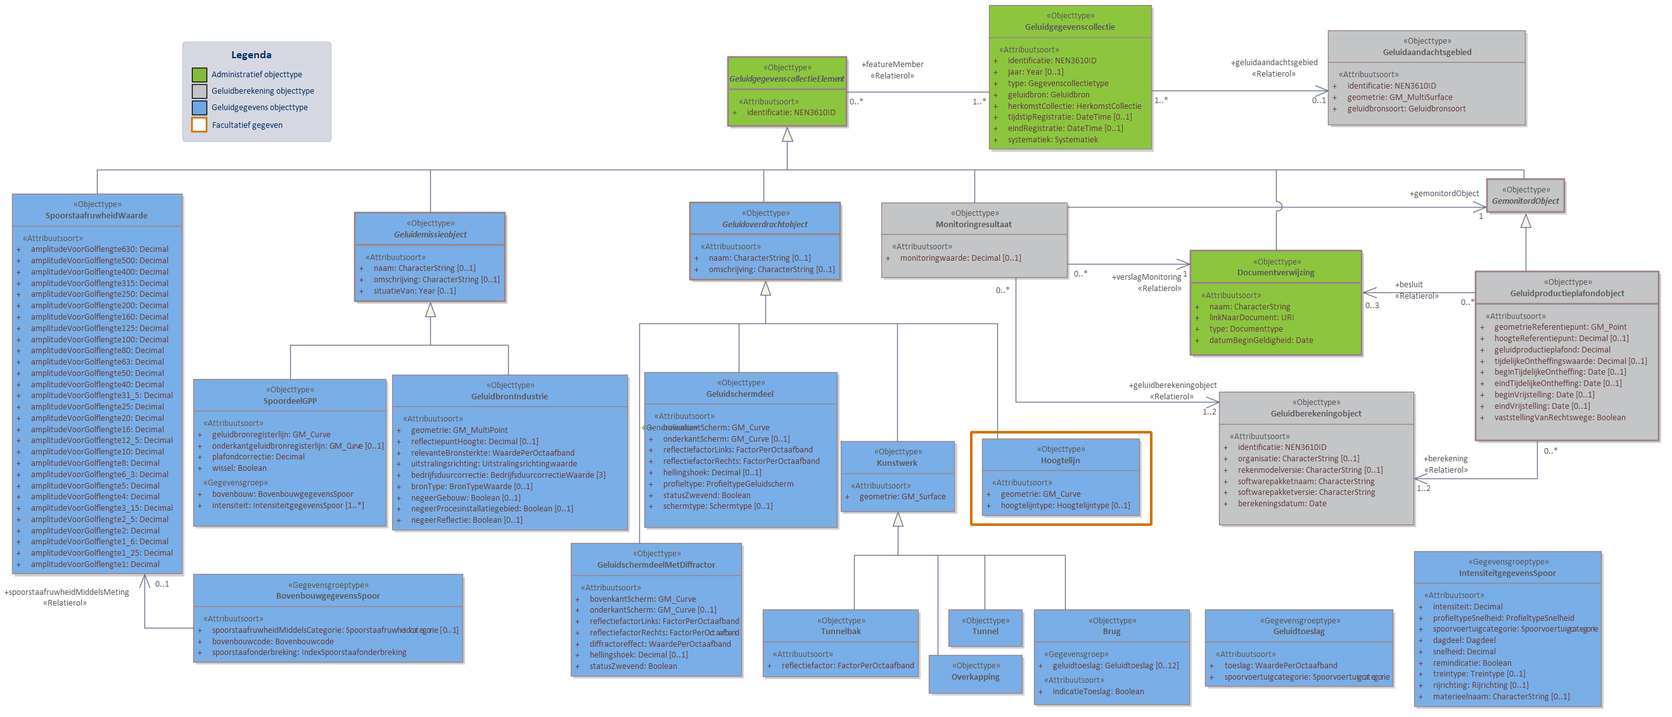
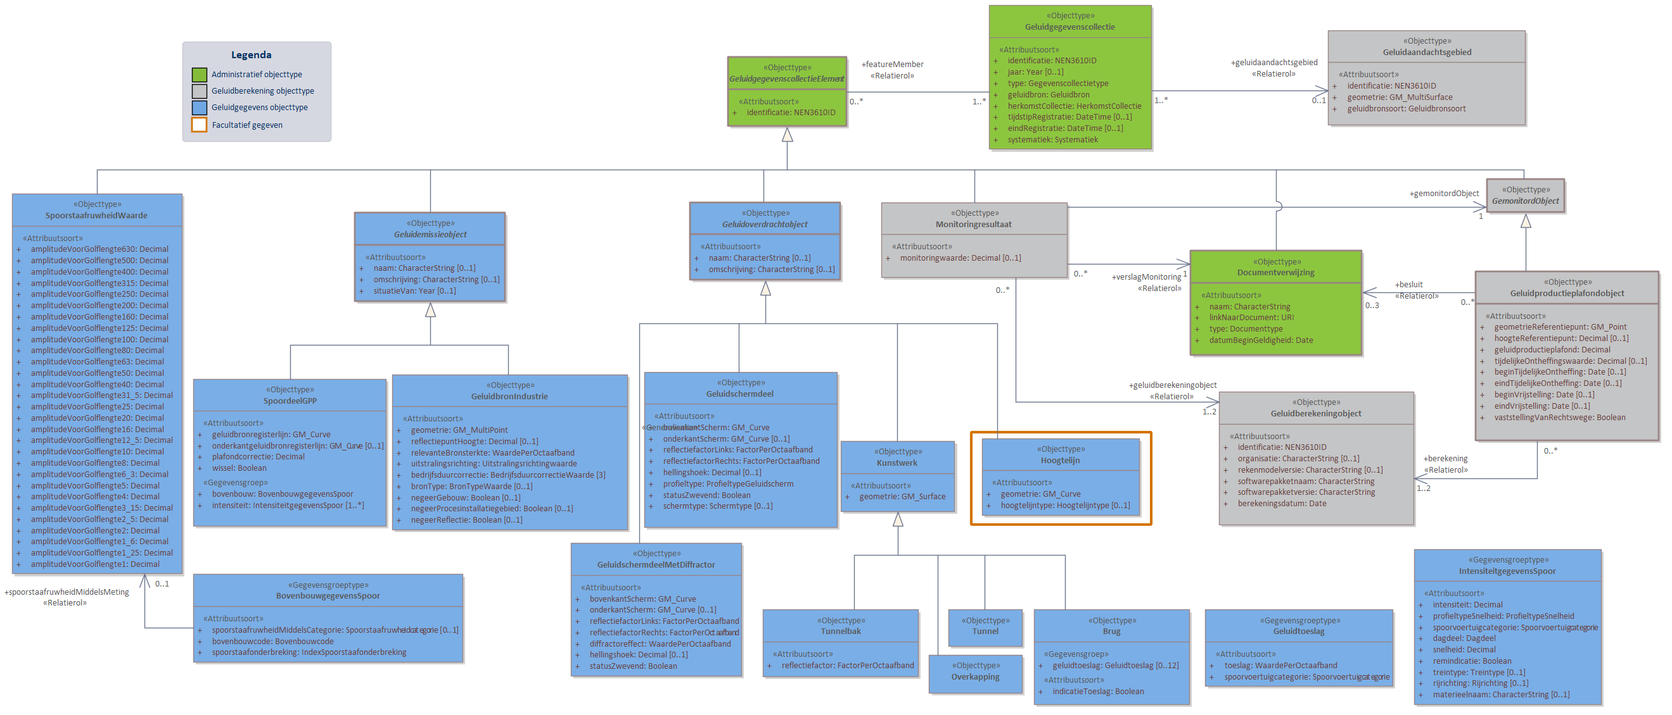
MIMLM-InformatiemodelGeluid-2.1-0-20221025-20230526-090517

diff --git a/data/IMG-cat.respec.html b/data/IMG-cat.respec.html
@@ -1,7 +1,7 @@
 
 <!DOCTYPE HTML><section id="cat" class="normative">
    <h2>Gegevensdefinitie</h2>
-   <!--MIMLM-InformatiemodelGeluid-2.1-0-20221025-20230525-085249 imvertor 1.67.1-->
+   <!--MIMLM-InformatiemodelGeluid-2.1-0-20221025-20230526-090517 imvertor 1.67.1-->
    <section id="EAID_66AE8FA2_74FC_4d4d_B2B2_249C8D6A651F">
       <h3>   Basismodel - overzicht</h3>
       <div class="imageinfo overview"><img src="data/Images/EAID_66AE8FA2_74FC_4d4d_B2B2_249C8D6A651F.png" usemap="#imagemap-EAID_66AE8FA2_74FC_4d4d_B2B2_249C8D6A651F" alt="Diagram &#xA;                        Het Basismodel vormt de samenhang tussen alle domeinen van het IMGeluid. Alle objecttypen en relaties uit het IMGeluid komen samen in een Geluidgegevenscollectie.&#xA;Binnen het IMGeluid worden geluidbrongegevens die gebruikt worden voor GPP en BGE berekeningen, gemodelleerd als een Geluidemissie of Geluidoverdrachtobject. De resultaten van GPP of BGE berekeningen worden opgeslagen in een Geluidgegevenscollectie. De onderliggende juridische vastleggingen, vaststellingen, of monitoringsverslagen van deze omgevings- of monitoringswaarden, worden ook opgeslagen in dezelfde Geluidgegevenscollectie.&#xA;Per geluidbron per toepassing kan er een Geluidgegevenscollectie bestaan. Deze kan geassocieerd worden met maximaal 1 Geluidaandachtsgebied. Wanneer geluidgegevens met betrekking tot cumulatieberekeningen worden aangeleverd, bevat een Geluidgegevenscollectie geen Geluidaandachtsgebied.&#xA;Klik met de rechtermuisknop op het diagram om de afbeelding op volledige grootte in een nieuw tabblad te openen.&#xA;                     "><map name="imagemap-EAID_66AE8FA2_74FC_4d4d_B2B2_249C8D6A651F"><area shape="rect" alt="GemonitordObject" coords="966,443,1089,508" href="#graph_EAID_5DD80772_ECDE_480d_9FC2_E806D8FD565E"><area shape="rect" alt="GeluidgegevenscollectieElement" coords="92,85,328,189" href="#graph_EAID_924BD078_D715_461a_B7E9_D7176A7406E0"><area shape="rect" alt="Monitoringresultaat" coords="391,562,640,675" href="#graph_EAID_BA00B77B_D408_4590_8185_CE59E5838F1E"><area shape="rect" alt="Basisgeluidemissieobject" coords="709,651,959,769" href="#graph_EAID_9AD15457_4880_42e5_8C72_4E5EFAC91B15"><area shape="rect" alt="Geluidproductieplafondobject" coords="985,604,1271,868" href="#graph_EAID_237408F8_8CE9_4828_B8FB_1A5B8C917622"><area shape="rect" alt="Geluidberekeningobject" coords="458,892,772,1092" href="#graph_EAID_97ED59FE_9FCA_49a6_8F07_214E48000B76"><area shape="rect" alt="Documentverwijzing" coords="432,299,689,474" href="#graph_EAID_7E137496_1028_4af5_9367_569358A2167B"><area shape="rect" alt="Geluidaandachtsgebied" coords="996,67,1242,206" href="#graph_EAID_B06128AC_518C_4e26_88E5_14ED5A050A19"><area shape="rect" alt="Geluidgegevenscollectie" coords="496,14,765,242" href="#graph_EAID_313C5AF9_49B8_4860_9E65_DE7C70084864"><area shape="rect" alt="Geluidemissieobject" coords="14,604,261,748" href="#graph_EAID_361C96BA_A638_494e_80BA_590ED481A81B"><area shape="rect" alt="Geluidoverdrachtobject" coords="107,332,357,461" href="#graph_EAID_2FEA326B_B7E7_48a4_B50F_00CCB2694677"></map><p><b>Basismodel - overzicht</b>
@@ -40,7 +40,7 @@
    </section>
    <section id="EAID_4D140CCE_0889_4998_B668_8E4DB0053589">
       <h3>   GPP Industrie - overzicht</h3>
-      <div class="imageinfo overview"><img src="data/Images/EAID_4D140CCE_0889_4998_B668_8E4DB0053589.png" usemap="#imagemap-EAID_4D140CCE_0889_4998_B668_8E4DB0053589" alt="Diagram &#xA;                        In domeinmodel GPP Industrie staan objecttypen en relaties die relevant zijn voor geluidbronbeheersing van industrieterreinen waarvoor de geluidproductieplafond regeling geldt; en die nodig zijn voor akoestisch onderzoek binnen het geluidaandachtsgebied van het industrieterrein.&#xA;Alle geluidbronnen op een industrieterrein worden opgeslagen als puntbronnen in het object  GeluidbronIndustrie. Indien binnen geluidrekensoftware gebruik is gemaakt van lijn- of vlakgeometrie voor het uitdrukken van geluidbronnen kan dit worden opgeslagen als optionele informatie conform de objecten LijnbronIndustrie en VlakbronIndustrie. &#xA;Voor ieder Geluidproductieplafondobject rondom het industrieterrein, valt te herleiden op welke geluidberekening de geluidproductieplafondwaarde gebaseerd is. Deze informatie wordt bijgehouden conform het Geluidberekeningobject.&#xA;Ook valt er te herleiden welke geluidbrongegevens gebruikt zijn bij een geluidberekening. Deze geluidbrongegevens zijn samen met het Geluidberekeningsobject terug te vinden in een  Geluidgegevenscollectie in de vorm van gespecialiseerde geluidemissie- en geluidoverdrachtsobjecten.&#xA;&#xA;&#xA;Klik met de rechtermuisknop op het diagram om de afbeelding op volledige grootte in een nieuw tabblad te openen&#xA;                     "><map name="imagemap-EAID_4D140CCE_0889_4998_B668_8E4DB0053589"><area shape="rect" alt="GemonitordObject" coords="1717,312,1840,370" href="#graph_EAID_5DD80772_ECDE_480d_9FC2_E806D8FD565E"><area shape="rect" alt="Industrieterrein" coords="1215,534,1480,661" href="#graph_EAID_1D01430D_AF7F_448d_B10E_DB334CFB14E9"><area shape="rect" alt="GeluidgegevenscollectieElement" coords="722,100,909,209" href="#graph_EAID_924BD078_D715_461a_B7E9_D7176A7406E0"><area shape="rect" alt="MonitoringresultaatIndustrie" coords="2154,876,2400,980" href="#graph_EAID_B9687B05_4B3A_4789_A07A_7B0C16C23CF5"><area shape="rect" alt="Terreintype" coords="1111,338,1286,477" href="#graph_EAID_77370E17_8492_4c58_9D1A_B6E09697F834"><area shape="rect" alt="Monitoringresultaat" coords="2161,649,2381,769" href="#graph_EAID_BA00B77B_D408_4590_8185_CE59E5838F1E"><area shape="rect" alt="Geluidgegevenscollectie" coords="1296,12,1618,242" href="#graph_EAID_313C5AF9_49B8_4860_9E65_DE7C70084864"><area shape="rect" alt="Geluidoverdrachtobject" coords="678,361,927,482" href="#graph_EAID_2FEA326B_B7E7_48a4_B50F_00CCB2694677"><area shape="rect" alt="Geluidemissieobject" coords="168,361,425,504" href="#graph_EAID_361C96BA_A638_494e_80BA_590ED481A81B"><area shape="rect" alt="GeluidproductieplafondobjectIndustrie" coords="1502,719,1805,876" href="#graph_EAID_54EBAB06_4239_44c9_A4FF_72CDA727F5D3"><area shape="rect" alt="Hoogtelijn" coords="491,847,748,969" href="#graph_EAID_CE3003A0_5F16_4630_B2A6_519B33439135"><area shape="rect" alt="Geluidschermdeel" coords="823,847,1107,1073" href="#graph_EAID_BC342A75_1053_4086_9B42_321F22E3FA82"><area shape="rect" alt="VlakbronIndustrie" coords="368,1021,696,1214" href="#graph_EAID_43CE47B3_F0C4_4ee1_A29C_DA9AE6216E59"><area shape="rect" alt="IndustrieRekeninstellingen" coords="1804,1095,2109,1197" href="#graph_EAID_7B120AD1_3CF4_4d78_9CA8_B7D7B709DB5A"><area shape="rect" alt="Bodemvlak" coords="1138,842,1395,987" href="#graph_EAID_902B9218_E1B1_4512_B52A_F8DADD1DB990"><area shape="rect" alt="Geluidberekeningobject" coords="1820,854,2125,1047" href="#graph_EAID_97ED59FE_9FCA_49a6_8F07_214E48000B76"><area shape="rect" alt="Terrein" coords="1301,339,1566,496" href="#graph_EAID_3CF82A2D_EBD2_45f5_BDBF_6B65612322CD"><area shape="rect" alt="LijnbronIndustrie" coords="82,1020,323,1179" href="#graph_EAID_EF66CAA4_E8AE_4eca_8176_0B5CE277CD47"><area shape="rect" alt="Procesinstallatiegebied" coords="842,649,1158,824" href="#graph_EAID_F66BFCFE_8850_4cf0_8769_084A9455A966"><area shape="rect" alt="Vegetatiegebied" coords="1167,671,1483,821" href="#graph_EAID_C09CF91E_C221_4fe9_B126_08102B3DEF5A"><area shape="rect" alt="Documentverwijzing" coords="2065,395,2275,549" href="#graph_EAID_7E137496_1028_4af5_9367_569358A2167B"><area shape="rect" alt="Geluidproductieplafondobject" coords="1659,415,1952,667" href="#graph_EAID_237408F8_8CE9_4828_B8FB_1A5B8C917622"><area shape="rect" alt="Bouwwerk" coords="511,649,823,842" href="#graph_EAID_8A05EFB0_A6AD_45e8_AE68_FAA4399063F2"><area shape="rect" alt="Geluidaandachtsgebied" coords="1971,41,2244,195" href="#graph_EAID_B06128AC_518C_4e26_88E5_14ED5A050A19"><area shape="rect" alt="GeluidbronIndustrie" coords="102,556,452,825" href="#graph_EAID_7B6D3D2D_0C70_435a_AAFC_FABC9CD61353"></map><p><b>GPP Industrie - overzicht</b>
+      <div class="imageinfo overview"><img src="data/Images/EAID_4D140CCE_0889_4998_B668_8E4DB0053589.png" usemap="#imagemap-EAID_4D140CCE_0889_4998_B668_8E4DB0053589" alt="Diagram &#xA;                        In domeinmodel GPP Industrie staan objecttypen en relaties die relevant zijn voor geluidbronbeheersing van industrieterreinen waarvoor de geluidproductieplafond regeling geldt; en die nodig zijn voor akoestisch onderzoek binnen het geluidaandachtsgebied van het industrieterrein.&#xA;Alle geluidbronnen op een industrieterrein worden opgeslagen als puntbronnen in het object  GeluidbronIndustrie. Indien binnen geluidrekensoftware gebruik is gemaakt van lijn- of vlakgeometrie voor het uitdrukken van geluidbronnen kan dit worden opgeslagen als optionele informatie conform de objecten LijnbronIndustrie en VlakbronIndustrie. &#xA;Voor ieder Geluidproductieplafondobject rondom het industrieterrein, valt te herleiden op welke geluidberekening de geluidproductieplafondwaarde gebaseerd is. Deze informatie wordt bijgehouden conform het Geluidberekeningobject.&#xA;Ook valt er te herleiden welke geluidbrongegevens gebruikt zijn bij een geluidberekening. Deze geluidbrongegevens zijn samen met het Geluidberekeningsobject terug te vinden in een  Geluidgegevenscollectie in de vorm van gespecialiseerde geluidemissie- en geluidoverdrachtsobjecten.&#xA;&#xA;&#xA;Klik met de rechtermuisknop op het diagram om de afbeelding op volledige grootte in een nieuw tabblad te openen&#xA;                     "><map name="imagemap-EAID_4D140CCE_0889_4998_B668_8E4DB0053589"><area shape="rect" alt="GemonitordObject" coords="1717,312,1840,370" href="#graph_EAID_5DD80772_ECDE_480d_9FC2_E806D8FD565E"><area shape="rect" alt="Industrieterrein" coords="1215,534,1480,661" href="#graph_EAID_1D01430D_AF7F_448d_B10E_DB334CFB14E9"><area shape="rect" alt="GeluidgegevenscollectieElement" coords="722,100,909,209" href="#graph_EAID_924BD078_D715_461a_B7E9_D7176A7406E0"><area shape="rect" alt="MonitoringresultaatIndustrie" coords="2154,876,2400,980" href="#graph_EAID_B9687B05_4B3A_4789_A07A_7B0C16C23CF5"><area shape="rect" alt="Terreintype" coords="1111,338,1286,477" href="#graph_EAID_77370E17_8492_4c58_9D1A_B6E09697F834"><area shape="rect" alt="Monitoringresultaat" coords="2161,649,2381,769" href="#graph_EAID_BA00B77B_D408_4590_8185_CE59E5838F1E"><area shape="rect" alt="Geluidgegevenscollectie" coords="1296,12,1618,242" href="#graph_EAID_313C5AF9_49B8_4860_9E65_DE7C70084864"><area shape="rect" alt="Geluidoverdrachtobject" coords="678,361,927,482" href="#graph_EAID_2FEA326B_B7E7_48a4_B50F_00CCB2694677"><area shape="rect" alt="Geluidemissieobject" coords="168,361,425,504" href="#graph_EAID_361C96BA_A638_494e_80BA_590ED481A81B"><area shape="rect" alt="GeluidproductieplafondobjectIndustrie" coords="1502,719,1805,876" href="#graph_EAID_54EBAB06_4239_44c9_A4FF_72CDA727F5D3"><area shape="rect" alt="Hoogtelijn" coords="491,847,748,969" href="#graph_EAID_CE3003A0_5F16_4630_B2A6_519B33439135"><area shape="rect" alt="Geluidschermdeel" coords="827,840,1111,1066" href="#graph_EAID_BC342A75_1053_4086_9B42_321F22E3FA82"><area shape="rect" alt="VlakbronIndustrie" coords="368,1021,696,1214" href="#graph_EAID_43CE47B3_F0C4_4ee1_A29C_DA9AE6216E59"><area shape="rect" alt="IndustrieRekeninstellingen" coords="1804,1095,2109,1197" href="#graph_EAID_7B120AD1_3CF4_4d78_9CA8_B7D7B709DB5A"><area shape="rect" alt="Bodemvlak" coords="1138,842,1395,987" href="#graph_EAID_902B9218_E1B1_4512_B52A_F8DADD1DB990"><area shape="rect" alt="Geluidberekeningobject" coords="1820,854,2125,1047" href="#graph_EAID_97ED59FE_9FCA_49a6_8F07_214E48000B76"><area shape="rect" alt="Terrein" coords="1301,339,1566,496" href="#graph_EAID_3CF82A2D_EBD2_45f5_BDBF_6B65612322CD"><area shape="rect" alt="LijnbronIndustrie" coords="82,1020,323,1179" href="#graph_EAID_EF66CAA4_E8AE_4eca_8176_0B5CE277CD47"><area shape="rect" alt="Procesinstallatiegebied" coords="842,649,1158,824" href="#graph_EAID_F66BFCFE_8850_4cf0_8769_084A9455A966"><area shape="rect" alt="Vegetatiegebied" coords="1167,671,1483,821" href="#graph_EAID_C09CF91E_C221_4fe9_B126_08102B3DEF5A"><area shape="rect" alt="Documentverwijzing" coords="2065,395,2275,549" href="#graph_EAID_7E137496_1028_4af5_9367_569358A2167B"><area shape="rect" alt="Geluidproductieplafondobject" coords="1659,420,1952,671" href="#graph_EAID_237408F8_8CE9_4828_B8FB_1A5B8C917622"><area shape="rect" alt="Bouwwerk" coords="511,649,823,842" href="#graph_EAID_8A05EFB0_A6AD_45e8_AE68_FAA4399063F2"><area shape="rect" alt="Geluidaandachtsgebied" coords="1971,41,2244,195" href="#graph_EAID_B06128AC_518C_4e26_88E5_14ED5A050A19"><area shape="rect" alt="GeluidbronIndustrie" coords="104,555,454,824" href="#graph_EAID_7B6D3D2D_0C70_435a_AAFC_FABC9CD61353"></map><p><b>GPP Industrie - overzicht</b>
             
             <p>In domeinmodel GPP Industrie staan objecttypen en relaties die relevant zijn voor
                geluidbronbeheersing van industrieterreinen waarvoor de geluidproductieplafond regeling
@@ -89,7 +89,7 @@
    </section>
    <section id="EAID_33DF05AD_62E8_41d4_8CC0_8980CB80739F">
       <h3>   GPP Spoor - overzicht</h3>
-      <div class="imageinfo overview"><img src="data/Images/EAID_33DF05AD_62E8_41d4_8CC0_8980CB80739F.png" usemap="#imagemap-EAID_33DF05AD_62E8_41d4_8CC0_8980CB80739F" alt="Diagram &#xA;                        In domeinmodel GPP Spoor staan objecttypen en relaties die relevant zijn voor geluidbronbeheersing van spoorwegen waarvoor de geluidproductieplafond regeling geldt; en die nodig zijn voor akoestisch onderzoek binnen het geluidaandachtsgebied van spoorwegen.&#xA;Geluidbronnen binnen GPP Spoor worden opgeslagen als lijnbron conform het object SpoordeelGPP, behalve voor geluidbronnen binnen spoorwegemplacementen. Deze geluidbronnen worden opgeslagen als GeluidbronIndustrie.&#xA;Voor ieder Geluidproductieplafondobject langs een Hoofdspoorweg, valt te herleiden op welke geluidberekening de geluidproductieplafondwaarde gebaseerd is. Deze informatie wordt bijgehouden conform het Geluidberekeningobject.&#xA;Ook valt er te herleiden welke geluidbrongegevens gebruikt zijn bij een geluidberekening. Deze geluidbrongegevens zijn samen met het Geluidberekeningsobject terug te vinden in een  Geluidgegevenscollectie in de vorm van gespecialiseerde geluidemissie- en geluidoverdrachtsobjecten.&#xA;&#xA;Klik met de rechtermuisknop op het diagram om de afbeelding op volledige grootte in een nieuw tabblad te openen&#xA;&#xA;                     "><map name="imagemap-EAID_33DF05AD_62E8_41d4_8CC0_8980CB80739F"><area shape="rect" alt="GemonitordObject" coords="2347,283,2470,336" href="#graph_EAID_5DD80772_ECDE_480d_9FC2_E806D8FD565E"><area shape="rect" alt="GeluidschermdeelMetDiffractor" coords="901,858,1171,1069" href="#graph_EAID_0A4CA1DE_F6B4_471a_9AC9_690315ADE781"><area shape="rect" alt="IntensiteitgegevensSpoor" coords="2232,871,2528,1117" href="#graph_EAID_5FFCEE29_DD71_45db_926C_AB9A7E8677F3"><area shape="rect" alt="BovenbouwgegevensSpoor" coords="305,907,731,1047" href="#graph_EAID_B5BBEDFE_C275_4c9f_BFF4_0440A0F7820B"><area shape="rect" alt="SpoorstaafruwheidWaarde" coords="19,306,288,907" href="#graph_EAID_E5D9E12A_27B9_417c_ABEB_2149C046EBE0"><area shape="rect" alt="GeluidgegevenscollectieElement" coords="1149,90,1337,200" href="#graph_EAID_924BD078_D715_461a_B7E9_D7176A7406E0"><area shape="rect" alt="Geluidtoeslag" coords="1902,963,2199,1085" href="#graph_EAID_FB0866C8_1438_445a_BB63_B798A00E1626"><area shape="rect" alt="Geluidgegevenscollectie" coords="1561,8,1818,236" href="#graph_EAID_313C5AF9_49B8_4860_9E65_DE7C70084864"><area shape="rect" alt="Monitoringresultaat" coords="1391,320,1685,439" href="#graph_EAID_BA00B77B_D408_4590_8185_CE59E5838F1E"><area shape="rect" alt="GeluidbronIndustrie" coords="619,592,991,838" href="#graph_EAID_7B6D3D2D_0C70_435a_AAFC_FABC9CD61353"><area shape="rect" alt="Kunstwerk" coords="1327,697,1507,809" href="#graph_EAID_E7C0AB60_EC07_4e4f_8F38_E279188D028A"><area shape="rect" alt="Overkapping" coords="1466,1035,1614,1096" href="#graph_EAID_68402E1D_9370_4bd4_87E6_A21FD883E5B5"><area shape="rect" alt="Tunnelbak" coords="1204,963,1450,1070" href="#graph_EAID_5A041C70_3BE7_4273_87C7_341981B09801"><area shape="rect" alt="Tunnel" coords="1497,963,1614,1022" href="#graph_EAID_52FB0AD2_D680_41f5_A4E8_979EF928F841"><area shape="rect" alt="Brug" coords="1632,963,1878,1114" href="#graph_EAID_F36131A1_FE84_4230_B41A_3E55575D3C80"><area shape="rect" alt="Geluidemissieobject" coords="560,336,798,477" href="#graph_EAID_361C96BA_A638_494e_80BA_590ED481A81B"><area shape="rect" alt="Geluidoverdrachtobject" coords="1089,320,1327,443" href="#graph_EAID_2FEA326B_B7E7_48a4_B50F_00CCB2694677"><area shape="rect" alt="Geluidberekeningobject" coords="1924,619,2232,830" href="#graph_EAID_97ED59FE_9FCA_49a6_8F07_214E48000B76"><area shape="rect" alt="Documentverwijzing" coords="1879,396,2150,562" href="#graph_EAID_7E137496_1028_4af5_9367_569358A2167B"><area shape="rect" alt="Geluidaandachtsgebied" coords="2096,48,2408,198" href="#graph_EAID_B06128AC_518C_4e26_88E5_14ED5A050A19"><area shape="rect" alt="Geluidproductieplafondobject" coords="2329,429,2619,697" href="#graph_EAID_237408F8_8CE9_4828_B8FB_1A5B8C917622"><area shape="rect" alt="SpoordeelGPP" coords="305,599,610,832" href="#graph_EAID_711C94BB_E0F7_40e5_A41A_C53DB13272C3"><area shape="rect" alt="Geluidschermdeel" coords="1017,588,1322,834" href="#graph_EAID_BC342A75_1053_4086_9B42_321F22E3FA82"><area shape="rect" alt="Hoogtelijn" coords="1550,693,1799,815" href="#graph_EAID_CE3003A0_5F16_4630_B2A6_519B33439135"></map><p><b>GPP Spoor - overzicht</b>
+      <div class="imageinfo overview"><img src="data/Images/EAID_33DF05AD_62E8_41d4_8CC0_8980CB80739F.png" usemap="#imagemap-EAID_33DF05AD_62E8_41d4_8CC0_8980CB80739F" alt="Diagram &#xA;                        In domeinmodel GPP Spoor staan objecttypen en relaties die relevant zijn voor geluidbronbeheersing van spoorwegen waarvoor de geluidproductieplafond regeling geldt; en die nodig zijn voor akoestisch onderzoek binnen het geluidaandachtsgebied van spoorwegen.&#xA;Geluidbronnen binnen GPP Spoor worden opgeslagen als lijnbron conform het object SpoordeelGPP, behalve voor geluidbronnen binnen spoorwegemplacementen. Deze geluidbronnen worden opgeslagen als GeluidbronIndustrie.&#xA;Voor ieder Geluidproductieplafondobject langs een Hoofdspoorweg, valt te herleiden op welke geluidberekening de geluidproductieplafondwaarde gebaseerd is. Deze informatie wordt bijgehouden conform het Geluidberekeningobject.&#xA;Ook valt er te herleiden welke geluidbrongegevens gebruikt zijn bij een geluidberekening. Deze geluidbrongegevens zijn samen met het Geluidberekeningsobject terug te vinden in een  Geluidgegevenscollectie in de vorm van gespecialiseerde geluidemissie- en geluidoverdrachtsobjecten.&#xA;&#xA;Klik met de rechtermuisknop op het diagram om de afbeelding op volledige grootte in een nieuw tabblad te openen&#xA;&#xA;                     "><map name="imagemap-EAID_33DF05AD_62E8_41d4_8CC0_8980CB80739F"><area shape="rect" alt="GemonitordObject" coords="2347,283,2470,336" href="#graph_EAID_5DD80772_ECDE_480d_9FC2_E806D8FD565E"><area shape="rect" alt="GeluidschermdeelMetDiffractor" coords="901,858,1171,1069" href="#graph_EAID_0A4CA1DE_F6B4_471a_9AC9_690315ADE781"><area shape="rect" alt="IntensiteitgegevensSpoor" coords="2232,868,2528,1114" href="#graph_EAID_5FFCEE29_DD71_45db_926C_AB9A7E8677F3"><area shape="rect" alt="BovenbouwgegevensSpoor" coords="305,907,731,1047" href="#graph_EAID_B5BBEDFE_C275_4c9f_BFF4_0440A0F7820B"><area shape="rect" alt="SpoorstaafruwheidWaarde" coords="19,306,288,907" href="#graph_EAID_E5D9E12A_27B9_417c_ABEB_2149C046EBE0"><area shape="rect" alt="GeluidgegevenscollectieElement" coords="1149,90,1337,200" href="#graph_EAID_924BD078_D715_461a_B7E9_D7176A7406E0"><area shape="rect" alt="Geluidtoeslag" coords="1902,963,2199,1085" href="#graph_EAID_FB0866C8_1438_445a_BB63_B798A00E1626"><area shape="rect" alt="Geluidgegevenscollectie" coords="1561,8,1818,236" href="#graph_EAID_313C5AF9_49B8_4860_9E65_DE7C70084864"><area shape="rect" alt="Monitoringresultaat" coords="1391,320,1685,439" href="#graph_EAID_BA00B77B_D408_4590_8185_CE59E5838F1E"><area shape="rect" alt="GeluidbronIndustrie" coords="619,592,991,838" href="#graph_EAID_7B6D3D2D_0C70_435a_AAFC_FABC9CD61353"><area shape="rect" alt="Kunstwerk" coords="1327,697,1507,809" href="#graph_EAID_E7C0AB60_EC07_4e4f_8F38_E279188D028A"><area shape="rect" alt="Overkapping" coords="1466,1035,1614,1096" href="#graph_EAID_68402E1D_9370_4bd4_87E6_A21FD883E5B5"><area shape="rect" alt="Tunnelbak" coords="1204,963,1450,1070" href="#graph_EAID_5A041C70_3BE7_4273_87C7_341981B09801"><area shape="rect" alt="Tunnel" coords="1497,963,1614,1022" href="#graph_EAID_52FB0AD2_D680_41f5_A4E8_979EF928F841"><area shape="rect" alt="Brug" coords="1632,963,1878,1114" href="#graph_EAID_F36131A1_FE84_4230_B41A_3E55575D3C80"><area shape="rect" alt="Geluidemissieobject" coords="560,336,798,477" href="#graph_EAID_361C96BA_A638_494e_80BA_590ED481A81B"><area shape="rect" alt="Geluidoverdrachtobject" coords="1089,320,1327,443" href="#graph_EAID_2FEA326B_B7E7_48a4_B50F_00CCB2694677"><area shape="rect" alt="Geluidberekeningobject" coords="1924,619,2232,830" href="#graph_EAID_97ED59FE_9FCA_49a6_8F07_214E48000B76"><area shape="rect" alt="Documentverwijzing" coords="1879,396,2150,562" href="#graph_EAID_7E137496_1028_4af5_9367_569358A2167B"><area shape="rect" alt="Geluidaandachtsgebied" coords="2096,48,2408,198" href="#graph_EAID_B06128AC_518C_4e26_88E5_14ED5A050A19"><area shape="rect" alt="Geluidproductieplafondobject" coords="2329,429,2619,697" href="#graph_EAID_237408F8_8CE9_4828_B8FB_1A5B8C917622"><area shape="rect" alt="SpoordeelGPP" coords="305,599,610,832" href="#graph_EAID_711C94BB_E0F7_40e5_A41A_C53DB13272C3"><area shape="rect" alt="Geluidschermdeel" coords="1017,588,1322,834" href="#graph_EAID_BC342A75_1053_4086_9B42_321F22E3FA82"><area shape="rect" alt="Hoogtelijn" coords="1550,693,1799,815" href="#graph_EAID_CE3003A0_5F16_4630_B2A6_519B33439135"></map><p><b>GPP Spoor - overzicht</b>
             
             <p>In domeinmodel GPP Spoor staan objecttypen en relaties die relevant zijn voor geluidbronbeheersing
                van spoorwegen waarvoor de geluidproductieplafond regeling geldt; en die nodig zijn
@@ -228,19 +228,17 @@
                         
                         <li>Wanneer Geluidgegevenscollectie.type = "monitoringresultaat", mag de Geluidgegevenscollectie
                            alleen de volgende objecttypen (of een specialisatie daarvan) bevatten: Monitoringresultaat
-                           en Documentverwijzing;
-                           * </li>
+                           en Documentverwijzing;</li>
                         
-                        <li>Wanneer Geluidgegevenscollectie.geluidbron=Lokale spoorweg EN Geluidgegevenscollectie.systematiek
-                           =GPP: moeten alle Geluidoverdrachtsobjecten meegeleverd worden;
-                           * </li>
+                        <li>Wanneer Geluidgegevenscollectie.geluidbron="Lokale spoorweg" EN Geluidgegevenscollectie.systematiek
+                           ="GPP" dan moeten alle Geluidoverdrachtsobjecten meegeleverd worden;</li>
                         
                         <li>Wanneer Geluidgegevenscollectie.geluidbron="lokale spoorweg" EN Geluidgegevenscollectie.systematiek
                            ="BGE" mag geen Geluidoverdrachtsobject voorkomen in de Geluidgegevenscollectie;</li>
                         
                         <li>Indien Geluidgegevenscollectie.systematiek="GPP" en Geluidgegevenscollectie.type="vaststelling",
                            mag de Geluidgegevenscollectie Geluidproductieplafondobject(-en) bevatten, anders
-                           niet. </li>
+                           niet.</li>
                         
                         <li>Wanneer Geluidgegevenscollectie.type = 'monitoringresultaat' en de monitoring betreft
                            een terrein dan moet de relatie terrein een link naar een eerder aangeleverd Terrein
@@ -815,9 +813,10 @@
                      
                      <ul>
                         
-                        <li>Dit objecttype kan alleen worden aangeleverd indien Geluidgegevenscollectie.geluidbron
-                           = rijksweg, OF provinciale weg, <em> </em> OF hoofdspoor, OF (lokale spoorweg en Geluidgegevenscollectie.systematiek=GPP );
-                           EN geluidgegevenscollectie.type=vaststelling</li>
+                        <li>Geluidproductieplafondobject mag voorkomen indien Geluidgegevenscollectie.systematiek="GPP"
+                           en Geluidgegevenscollectie.type="vaststelling" en Geluidgegevenscollectie.geluidbron
+                           = "rijksweg", OF "provinciale weg", OF "hoofdspoor", OF "lokale spoorweg". In alle
+                           overige gevallen mag Geluidproductieplafondobject niet voorkomen. </li>
                         </ul>
                      </td>
                </tr>
@@ -1065,8 +1064,12 @@
                   <th>Regels</th>
                   <td>
                      
-                     <p>Wordt alleen gebruikt wanneer "geluidbron" van Geluidgegevenscollectie "Industrieterrein"
-                        is.</p>
+                     <ul>
+                        
+                        <li>MonitoringresultaatIndustrie mag voorkomen als Geluidgegevenscollectie.geluidbron="industrieterrein"
+                           en Geluidgegevenscollectie.type="monitoringresultaat". In alle overige gevallen mag
+                           MonitoringresultaatIndustrie niet voorkomen. </li>
+                        </ul>
                      </td>
                </tr>
             </tbody>
@@ -1223,8 +1226,12 @@
                   <th>Regels</th>
                   <td>
                      
-                     <p>Wordt alleen gebruikt wanneer "geluidbron" van Geluidgegevenscollectie "Industrieterrein"
-                        is.</p>
+                     <ul>
+                        
+                        <li>MonitoringresultaatIndustrie mag voorkomen als Geluidgegevenscollectie.geluidbron="industrieterrein"
+                           en Geluidgegevenscollectie.type="monitoringresultaat". In alle overige gevallen mag
+                           MonitoringresultaatIndustrie niet voorkomen. </li>
+                        </ul>
                      </td>
                </tr>
             </tbody>
@@ -1344,11 +1351,18 @@
                   <th>Regels</th>
                   <td>
                      
-                     <p>
-                        <strong>Kan alleen de volgende specialisaties van een Geluidemissieobject bevatten:</strong> WANNEER Geluidgegevenscollectie.geluidbron = gemeenteweg: WegdeelBGE en SpoordeelBGE;
-                        WANNEER Geluidgegevenscollectie.geluidbron = waterschapsweg: WegdeelBGE; WANNEER
-                        Geluidgegevenscollectie.geluidbron = lokale spoorweg EN Geluidgegevenscollectie.systematiek=BGE
-                        : SpoordeelBGE;</p>
+                     <ul>
+                        
+                        <li>Als Geluidgegevenscollectie.geluidbron = "gemeenteweg" dan mag het Basisgeluidemissieobject
+                           alleen WegdeelBGE en SpoordeelBGE bevatten als gerelateerde specialisatie van Geluidemissieobject
+                           .</li>
+                        
+                        <li>Als Geluidgegevenscollectie.geluidbron = "waterschapsweg" dan mag het Basisgeluidemissieobject
+                           alleen WegdeelBGE als gerelateerde specialisatie van Geluidemissieobjectbevatten.</li>
+                        
+                        <li>Als Geluidgegevenscollectie.geluidbron = "lokale spoorweg" dan mag het Basisgeluidemissieobject
+                           alleen SpoordeelBGE bevatten  als gerelateerde specialisatie van Geluidemissieobject.</li>
+                        </ul>
                      </td>
                </tr>
             </tbody>
@@ -1510,7 +1524,8 @@
                      
                      <ul>
                         
-                        <li>Dit object mag alleen gebruikt worden indien: Geluidgegevenscollectie.type='monitoringresultaat'.</li>
+                        <li>Dit object mag voorkomen indien Geluidgegevenscollectie.type="monitoringresultaat".
+                           In alle overige gevallen mag dit object niet voorkomen.</li>
                         </ul>
                      </td>
                </tr>
@@ -1655,16 +1670,6 @@
                   <th>Herkomst definitie</th>
                   <td>IMGeluid</td>
                </tr>
-               <tr>
-                  <th>Regels</th>
-                  <td>
-                     
-                     <ul>
-                        
-                        <li>Industrieterrein.typeTerrein moet de waarde "industrieterrein" hebben.</li>
-                        </ul>
-                     </td>
-               </tr>
             </tbody>
          </table>
          
@@ -1796,8 +1801,8 @@
                            "schiet- of springterrein", moet de Geluidgegevenscollectie een relatie met 1 terrein
                            bevatten, anders geen;</li>
                         
-                        <li>De waarde 'industrieterrein' voor typeTerrein mag alleen gebruikt worden bij instanties
-                           van de subklasse Industrieterrein.</li>
+                        <li>Bij subklasse Industrieterrein moet Terrein.typeTerrein gelijk zijn aan "industrieterrein".
+                           In alle overige gevallen mag Terrein.typeTerrein niet "industrieterrein" zijn.</li>
                         </ul>
                      </td>
                </tr>
@@ -4365,8 +4370,9 @@
                      
                      <ul>
                         
-                        <li>Mag alleen voorkomen wanneer Geluidgegevenscollectie.geluidbron = gemeenteweg OF Geluidgegevenscollectie.geluidbron
-                           = waterschapsweg OF Geluidgegevenscollectie.geluidbron = lokale spoorweg, EN Geluidgegevenscollectie.geluidbron.systematiek=BGE;</li>
+                        <li>Een SpoordeelBGE mag voorkomen in een Geluidgegevenscollectie wanneer Geluidgegevenscollectie.systematiek="BGE"
+                           en Geluidgegevenscollectie.geluidbron = "gemeenteweg"  of "lokale spoorweg". In alle
+                           overige gevallen mag SpoordeelBGE niet voorkomen. </li>
                         </ul>
                      </td>
                </tr>
@@ -5460,11 +5466,13 @@
                      
                      <ul>
                         
-                        <li>Komt alleen voor bij Geluidgegevenscollectie.geluidbron = Rijkswegen, Provinciale
-                           wegen en Industrie.</li>
+                        <li>Een Bodemvlak mag voorkomen in een Geluidgegevenscollectie wanneer Geluidgegevenscollectie.geluidbron
+                           = "rijksweg" OF "provinciale weg" OF "industrieterrein". In alle overige gevallen
+                           mag een Bodemvlak niet voorkomen.</li>
                         
-                        <li>Is optioneel gegeven,  behalve als het Bodemvlak binnen de grenzen van een industrieterrein
-                           ligt.</li>
+                        <li>Bodemvlak is een optioneel aan te leveren object, behalve als het binnen de grenzen
+                           van een industrieterrein ligt. Als het Bodemvlak binnen de grenzen van een industrieterrein
+                           ligt is het bodemvlak verplicht.</li>
                         </ul>
                      </td>
                </tr>
@@ -10789,7 +10797,13 @@
                         <th>Regels</th>
                         <td>
                            
-                           <p>Kan alleen voorkomen in combinatie met tijdelijkeOntheffing</p>
+                           <ul>
+                              
+                              <li>Geluidproductieplafondobject.tijdelijkeOntheffingswaarde mag ingevuld worden als
+                                 Geluidproductieplafondobject.beginTijdelijkeOntheffing is ingevuld. In alle andere
+                                 gevallen mag Geluidproductieplafondobject.tijdelijkeOntheffingswaarde niet worden
+                                 ingevuld.</li>
+                              </ul>
                            </td>
                      </tr>
                      <tr>
@@ -11341,7 +11355,13 @@
                         <th>Regels</th>
                         <td>
                            
-                           <p>Kan alleen voorkomen in combinatie met tijdelijkeOntheffing</p>
+                           <ul>
+                              
+                              <li>GeluidproductieplafondobjectIndustrie.tijdelijkeOntheffingswaardeLnight mag ingevuld
+                                 worden als beginTijdelijkeOntheffingLnight is ingevuld. In alle andere gevallen
+                                 mag GeluidproductieplafondobjectIndustrie.tijdelijkeOntheffingswaardeLnight niet
+                                 worden ingevuld. </li>
+                              </ul>
                            </td>
                      </tr>
                      <tr>
@@ -18658,7 +18678,10 @@
                         <th>Regels</th>
                         <td>
                            
-                           <p>Hier moet een correcte URL naar het document staan.</p>
+                           <ul>
+                              
+                              <li>Hier moet een correcte URL naar het document staan.</li>
+                              </ul>
                            </td>
                      </tr>
                      <tr>
@@ -26427,7 +26450,7 @@
 </section>
 <section id="lis" class="normative">
    <h2>Inhoud van waardenlijsten</h2>
-   <!--MIMLM-InformatiemodelGeluid-2.1-0-20221025-20230525-085249 imvertor 1.67.1--><a class="anchor" id="graph_EAID_C9ACE184_6E2B_40c1_ACE0_A7C5EE554EF9"></a><a class="anchor" id="detail_class_IMGeluidAlgemeen_Schermtype"></a><section id="detail_class_IMGeluidAlgemeen_Schermtype">
+   <!--MIMLM-InformatiemodelGeluid-2.1-0-20221025-20230526-090517 imvertor 1.67.1--><a class="anchor" id="graph_EAID_C9ACE184_6E2B_40c1_ACE0_A7C5EE554EF9"></a><a class="anchor" id="detail_class_IMGeluidAlgemeen_Schermtype"></a><section id="detail_class_IMGeluidAlgemeen_Schermtype">
       <h3>Enumeratie details  Schermtype</h3>
       
       <table style="width: 100%;" class="list">
